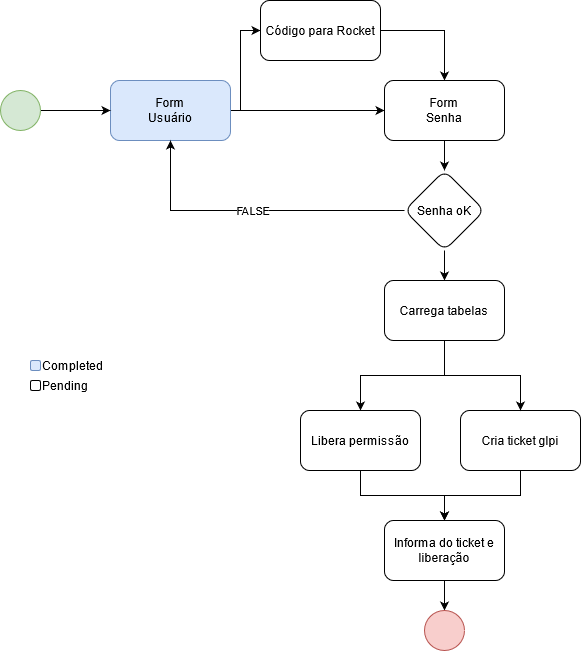
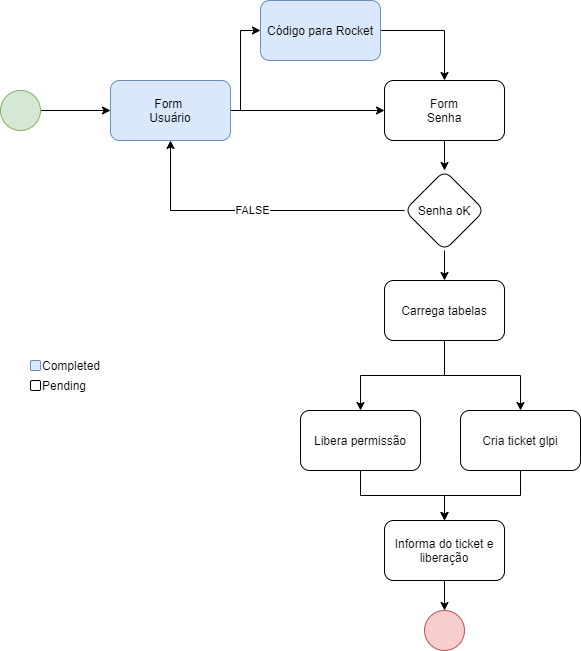
Enviando senha para o rocket e salvando no banco

diff --git a/authcode.go b/authcode.go
@@ -7,11 +7,27 @@ import (
 	"io/ioutil"
 	"net/http"
 	"strings"
+	"time"
+
+	"gorm.io/gorm"
+	"gorm.io/gorm/clause"
 )
 
-func enviarCode(user string) {
+type Auth struct {
+	User      string `gorm:"primaryKey"`
+	Authcode  string
+	Expire_in time.Time
+}
 
+func enviarCode(user string, db *gorm.DB) {
 	code := geraCode(6)
+
+	teste := &Auth{User: user, Authcode: code, Expire_in: time.Now()}
+
+	db.Clauses(clause.OnConflict{
+		UpdateAll: true,
+	}).Create(teste)
+
 	url := configs["rocket_url"]
 	method := "POST"
 

diff --git a/main.go b/main.go
@@ -40,7 +40,7 @@ func main() {
 
 	r.POST("/gerarcodigo", func(c *gin.Context) {
 		usuario := c.PostForm("usuario")
-		enviarCode(usuario)
+		enviarCode(usuario, db)
 		c.String(http.StatusOK, "", configs["rocket_url"])
 
 	})
